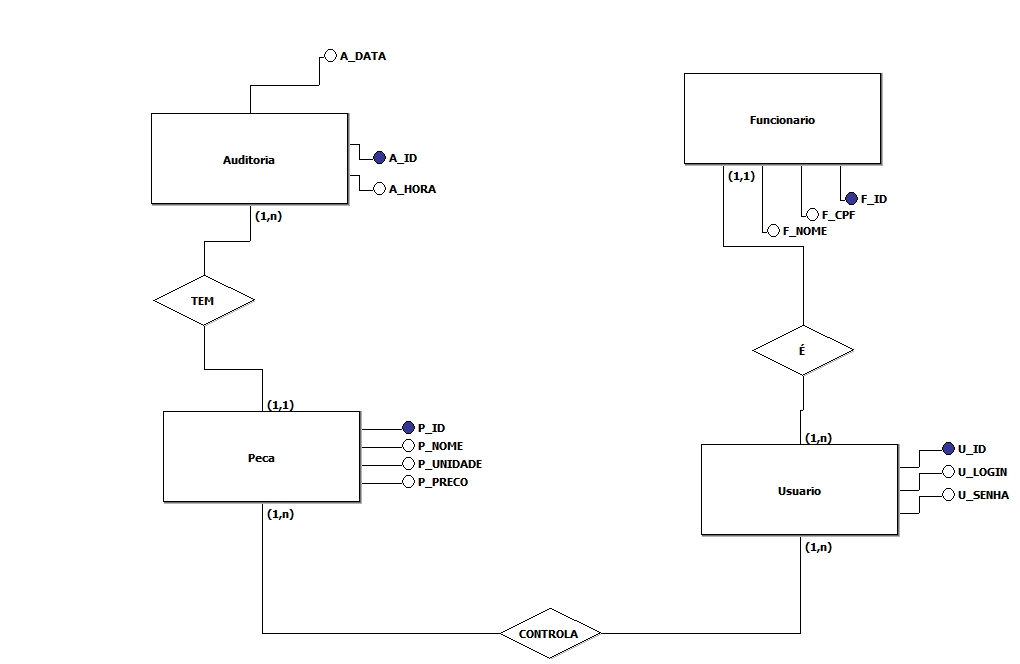
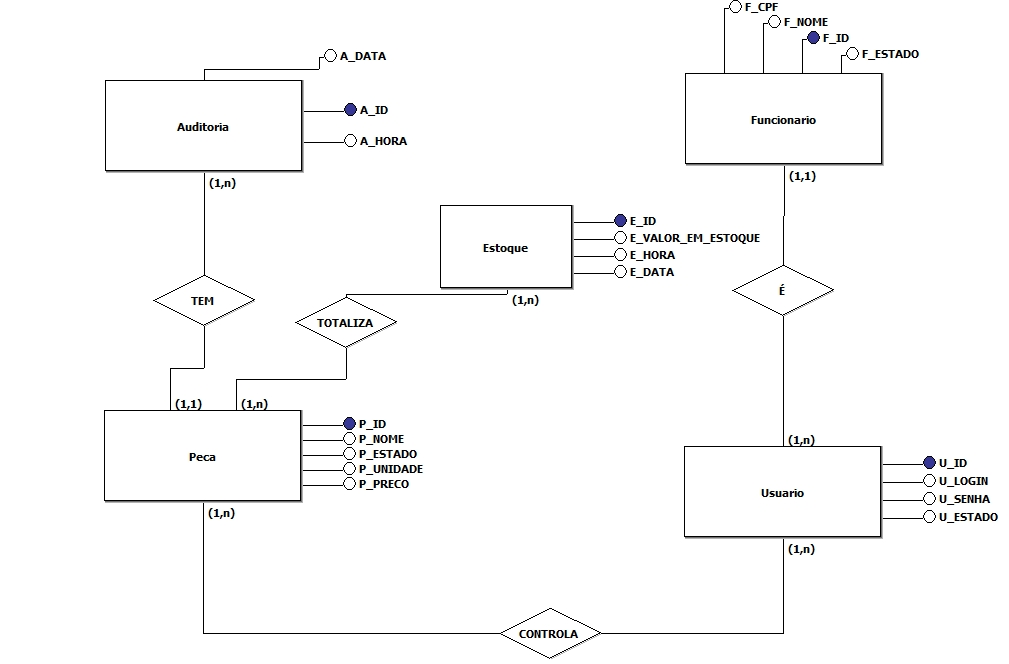
update files

diff --git a/src/java/Dao/PecaDao.java b/src/java/Dao/PecaDao.java
@@ -15,13 +15,14 @@ public class PecaDao {
     
     // INSERT
     public void salvar(PecaPojo pecaPojo){
-        sql = "INSERT INTO Peca(P_NOME, P_PRECO, P_UNIDADE) VALUES(?, ?, ?);";                
+        sql = "INSERT INTO Peca(P_NOME, P_PRECO, P_UNIDADE, P_ESTADO) VALUES(?, ?, ?, ?);";                
         try {
             connect.connection();
             PreparedStatement pst = connect.connect.prepareStatement(sql);
             pst.setString(1, pecaPojo.getP_NOME());
             pst.setDouble(2, pecaPojo.getP_PRECO());
-            pst.setInt(3, pecaPojo.getP_UNIDADE());            
+            pst.setInt(3, pecaPojo.getP_UNIDADE());
+            pst.setBoolean(4, pecaPojo.isP_ESTADO());
             pst.execute();
             connect.disconect();            
         } catch (SQLException ex) {            
@@ -31,7 +32,7 @@ public class PecaDao {
     
     // SELECT
     public ArrayList<PecaPojo> listar() throws SQLException{
-        sql = "SELECT * FROM Peca;";            
+        sql = "SELECT * FROM Peca WHERE P_ESTADO != true;";            
         ArrayList<PecaPojo> listPecaPojo = new ArrayList<>();        
         connect.connection();                
         try {

diff --git a/src/java/Pojo/PecaPojo.java b/src/java/Pojo/PecaPojo.java
@@ -5,6 +5,7 @@ public class PecaPojo {
     private String P_NOME;
     private int P_UNIDADE;
     private double P_PRECO;
+    private boolean P_ESTADO = false;
     
     public int getP_ID() {
         return P_ID;
@@ -37,4 +38,14 @@ public class PecaPojo {
     public void setP_PRECO(double P_PRECO) {
         this.P_PRECO = P_PRECO;
     }   
+    
+    public boolean isP_ESTADO() {
+        return P_ESTADO;
+    }
+    
+    public void setP_ESTADO(boolean P_ESTADO) {
+        this.P_ESTADO = P_ESTADO;
+    }
+
 }
+
